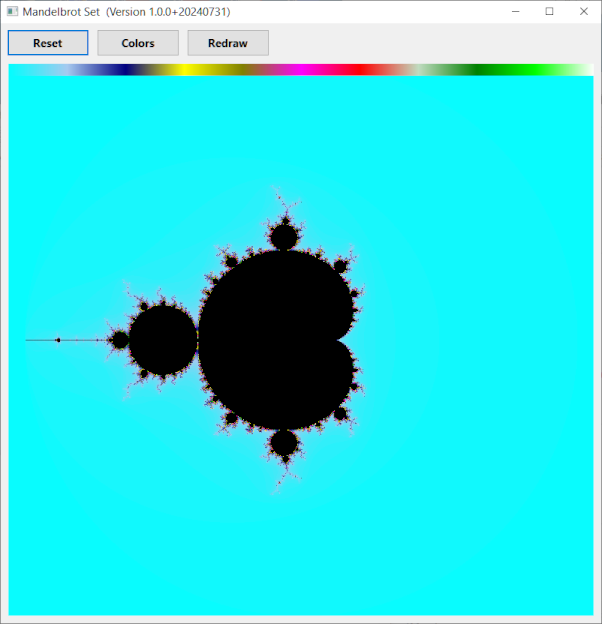
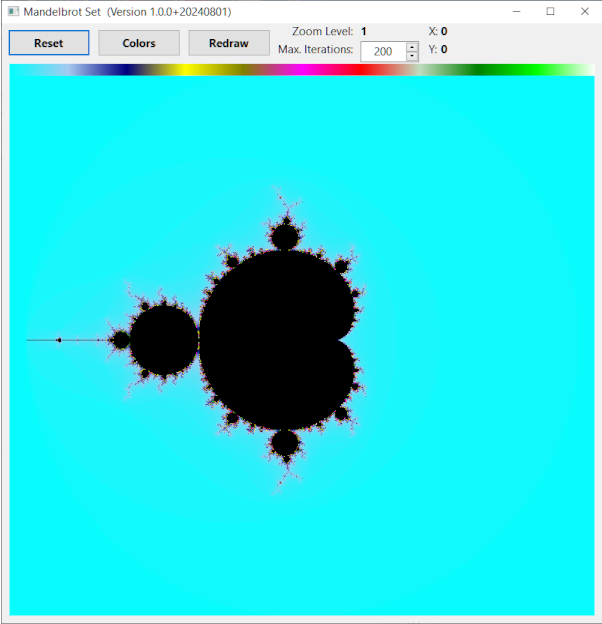
Update README to show and describe labels and spin edit control.

diff --git a/README.md b/README.md
@@ -1,6 +1,6 @@
 # Mandelbrot Set Viewer Written in Pascal
 
-_Version 1.0.0+20240731  ([Version Release Notes](#ReleaseNotes))_ 
+_Version 1.0.0+20240801  ([Version Release Notes](#ReleaseNotes))_ 
 
 This is an open source interactive graphic viewer for the **[Mandelbrot Set](https://en.wikipedia.org/wiki/Mandelbrot_set)**.
 
@@ -48,7 +48,10 @@ The viewer form contains these elements:
 
 - **Reset** button: Click this to re-initialize the viewer to show the full Mandelbrot Set after zooming in or and around the viewing area.
 - **Colors** button: Click this to display a set of various color gradients.  Click on any of the displayed color gradients to select it and the trigger a redraw of the Mandelbrot Set.
-- **Redraw** button: Click this to redraw the Mandelbrot Set after changing the size of the viewer form.
+- **Redraw** button: Click this to redraw the Mandelbrot Set after changing the size of the viewer form or the **Max. Iterations** value.
+- **Zoom Level** label indicates the current level of zoom in or out of the display.
+- **X** and **Y** labels indicate the current coordinates of the center of the displayed image.
+- **Max. Iterations** spin edit: Click the up or down arrows on this control to change the maximum number of iterations used to deteermine each pixel color of the image.  You can also type a value between 10 and 10000 directly into this control.  After changing the value, click the **Redraw** button to regenerate the image. 
 - The graphic display area contains the rendition of the Mandelbrot set, along with the currently selected color gradient at the top if the display area.
 
 Here is an image of the viewer form.
